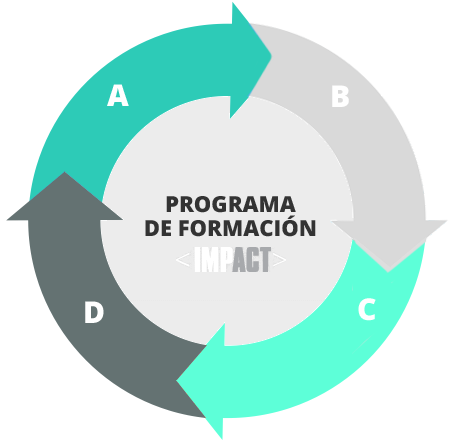
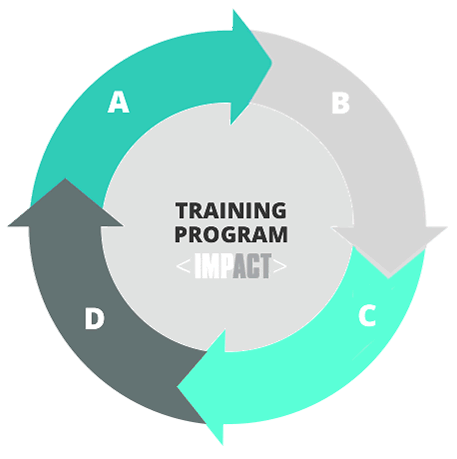
grafica de formación

diff --git a/_includes/entradillas/formacion_cuerpo.html b/_includes/entradillas/formacion_cuerpo.html
@@ -19,7 +19,7 @@
   </div>
   <div class="col-sm-4">
     <p class="text-center">
-      <img src="/img/diapos/formacion/grafica.png"  class="img-responsive" alt="programa de formación">
+      <img src="{{ page.grafica_formacion}}"  class="img-responsive" alt="programa de formación">
     </p>
   </div>
   <div class="col-sm-4">
@@ -57,7 +57,7 @@
   </div>
   <div class="col-sm-4">
     <p class="text-center">
-      <img src="/img/diapos/formacion/grafica.png"  class="img-responsive" alt="programa de formación">
+      <img src="{{ page.grafica_formacion}}"  class="img-responsive" alt="programa de formación">
     </p>
   </div>
   <div class="col-sm-4">

diff --git a/en/index.html b/en/index.html
@@ -73,6 +73,7 @@ grafica_seleccion: /img/diapos/en/seleccion/grafico.png
 grafica_financiacion: /img/diapos/en/financiacion/grafico.png
 grafica_mentoring: /img/diapos/en/mentoring/grafico.png
 grafica_inversores: /img/diapos/en/inversores/grafica.png
+grafica_formacion: /img/diapos/en/formacion/grafica.png
 ---
 {% include 01.alert.html %}
 

diff --git a/index.html b/index.html
@@ -73,6 +73,7 @@ grafica_seleccion: /img/diapos/seleccion/grafico.png
 grafica_financiacion: /img/diapos/financiacion/grafico.png
 grafica_mentoring: /img/diapos/mentoring/grafico.png
 grafica_inversores: /img/diapos/inversores/grafica.png
+grafica_formacion: /img/diapos/formacion/grafica.png
 
 ---
 {% include 01.alert.html %}
